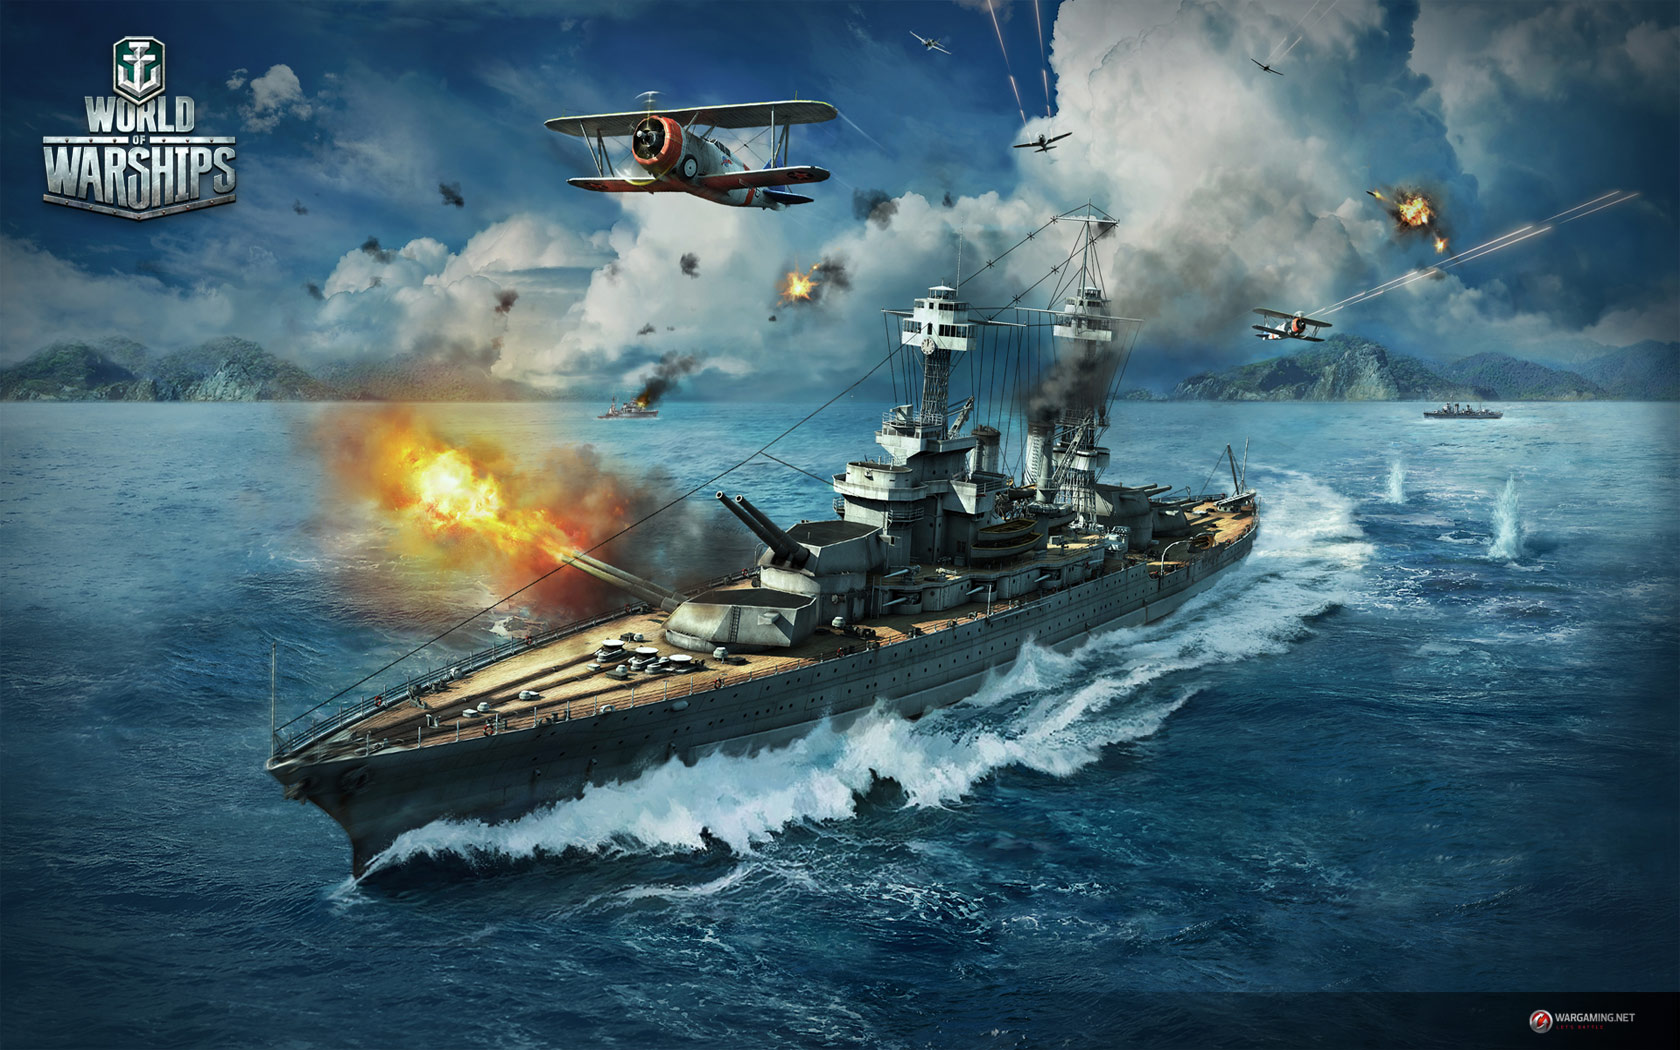
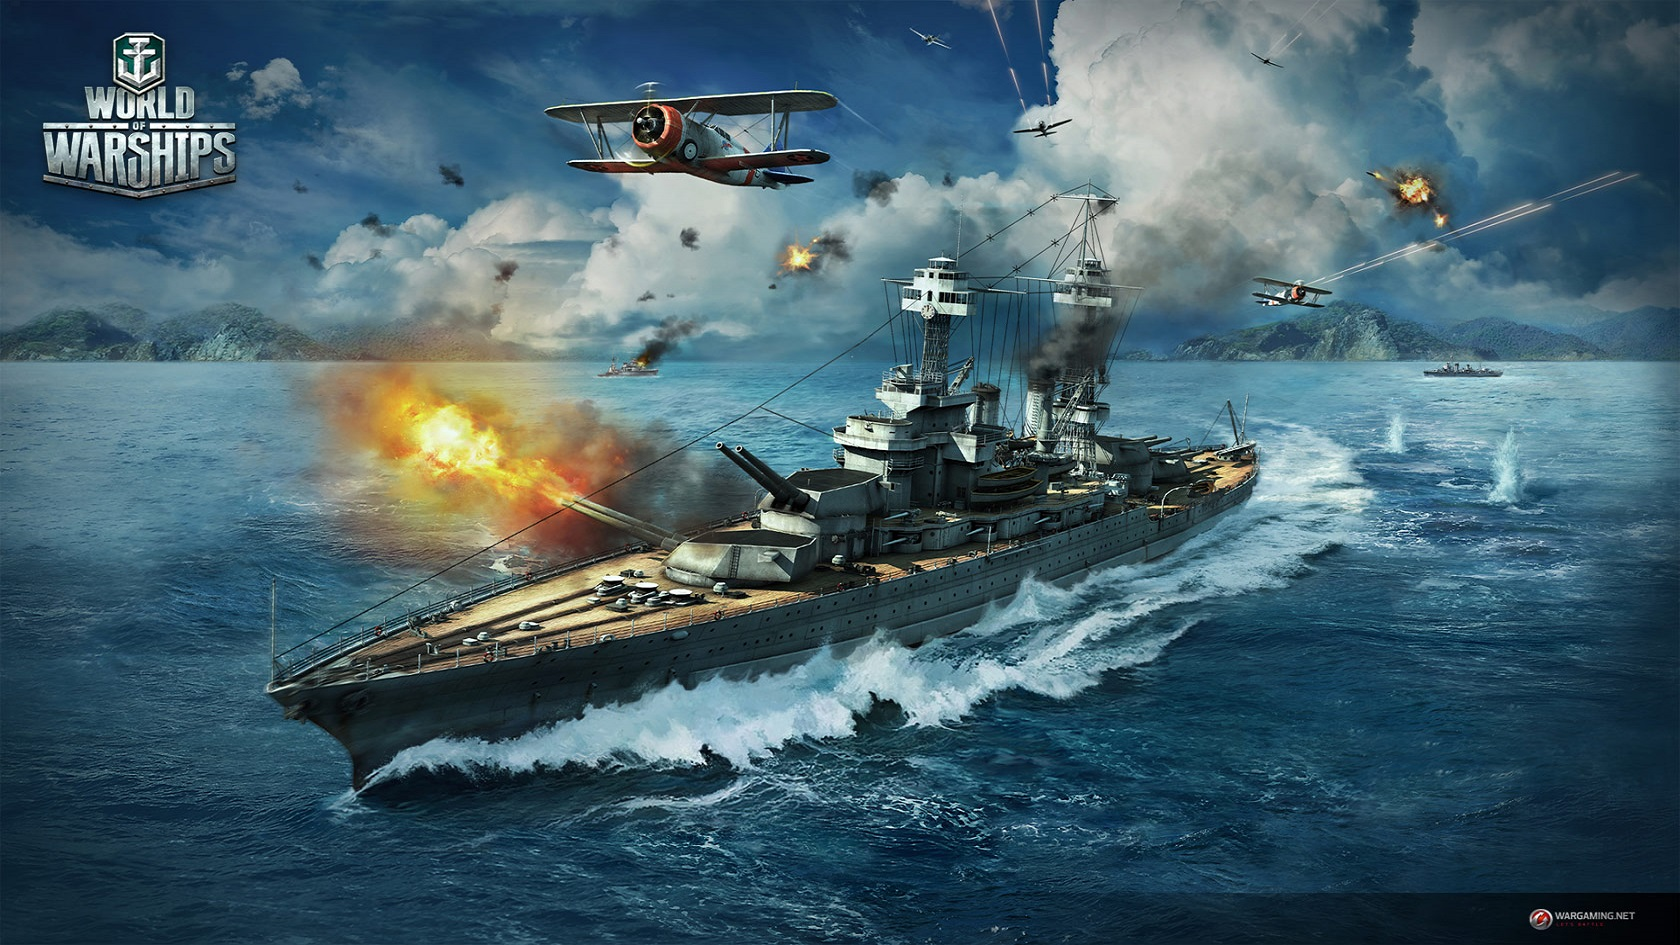
fixed picture size and used new directories

diff --git a/public/game.html b/public/game.html
@@ -17,6 +17,10 @@
 
     <!-- for font-awesome: -->
     <link rel="stylesheet" href="http://maxcdn.bootstrapcdn.com/font-awesome/4.4.0/css/font-awesome.min.css">
+    <script src="https://ajax.googleapis.com/ajax/libs/jquery/1.11.3/jquery.min.js"></script>
+    <script src="https://maxcdn.bootstrapcdn.com/bootstrap/3.3.5/js/bootstrap.min.js"
+    integrity="sha512-K1qjQ+NcF2TYO/eI3M6v8EiNYZfA95pQumfvcVrTHtwQVDG+aHRqLi/ETn2uB+1JqwYqVG3LIvdm9lj6imS/pQ=="
+    crossorigin="anonymous"></script>
 </head>
 <body>
 <div class="navbar navbar-default navbar-fixed-top" role="navigation">
@@ -33,7 +37,7 @@
         <div class="navbar-collapse collapse">
             <ul class="nav navbar-nav navbar-right">
                 <li class="active"><a href="index.html">Home</a></li>
-                <li><a href="#">About</a></li>
+                <li><a href="/about">About</a></li>
                 <li class="dropdown">
                     <a href="#" class="dropdown-toggle" data-toggle="dropdown">Admins & Co <b class="caret"></b>
                     </a>
@@ -65,7 +69,7 @@
         </p>
 
         <div class="thumbnail">
-            <img src="img/shipImage2.jpg" alt="here should be the game gui"></img>
+            <img src="images/shipImage2.jpg" alt="here should be the game gui"></img>
         </div>
     </div>
 
@@ -87,7 +91,7 @@
             </div>
             <div class="panel-body text-center">
                 <a href="http://www.htwg-konstanz.de" target="blank" class="thumbnail">
-                    <img src="img/htwg-logo.png" alt="htwg"></img>
+                    <img src="images/htwg-logo.png" alt="htwg"></img>
                 </a>
                 <a href="http://www.htwg-konstanz.de" target="blank" class="btn btn-success" role="button"> HTWG
                     Konstanz</a>
@@ -123,16 +127,16 @@
 
             <form action="#" method="">
                 <div class="form-group">
-                    <label for="player1name">Player 1 Name, testmail</label>
+                    <label for="player1name">Player 1 Name</label>
                     <input type="text" class="form-control" id="player1name" placeholder="Enter name of player 1">
                     </input>
-                    <p> Player 1, please type in your name. Test highlight: player1name</p>
+                    <p> Player 1, please type in your name.</p>
                 </div>
                 <div class="form-group">
-                    <label for="player2name">Player 2 Name, testmail</label>
+                    <label for="player2name">Player 2 Name</label>
                     <input type="text" class="form-control" id="player2name" placeholder="Enter name of player 2">
                     </input>
-                    <p> Player 2, please type in your name. Test highlight: player1name</p>
+                    <p> Player 2, please type in your name.</p>
                 </div>
 
                 <div class="form-group">
@@ -144,76 +148,6 @@
     </div>
 
 </div>
-
-<div class="container">
-    <form action="">
-        <div class="form group has-warning form-control-feedback">
-            <label for="playerName" class="sr-only">Player1X Name</label>
-            <input type="text" id="playerName" class="form-control" placeholder="Enter name of Player1"></input>
-        </div>
-        <div class="form group has-error">
-            <label for="playerName2">Player2XX Name</label>
-            <input type="text" id="playerName2" class="form-control" placeholder="Enter name of Player2"></input>
-        </div>
-        <p class="help-block">Enter your name here. Chose whatever name you want!</p>
-
-        <div class="form group has-success">
-            <label for="playerName2" class="control-label">Player2 Name</label>
-            <input type="text" id="playerName2" class="form-control" placeholder="Enter name of Player2"></input>
-        </div>
-        <div class="form group has-success has-feedback">
-            <label for="playerName2" class="control-label">Player2 Name</label>
-            <input type="text" id="playerName2" class="form-control" placeholder="Enter name of Player2"></input>
-            <span class="glyphicon glyphicon-check form-control-feedback"></span>
-        </div>
-        <div class="form group has-success has-feedback">
-            <label for="playerName2" class="control-label ">PlayerY2 Name</label>
-            <input type="text" id="playerName2" class="form-control input-lg"
-                   placeholder="Enter name of Player2"></input>
-            <span class="glyphicon glyphicon-thumbs-up form-control-feedback"></span>
-        </div>
-
-        <div class="form group has-success has-feedback col-md-2">
-            <label for="playerName2" class="control-label ">PlayerY2 Name</label>
-            <input type="text" id="playerName2" class="form-control input-lg"
-                   placeholder="Enter name of Player2"></input>
-            <span class="glyphicon glyphicon-thumbs-up form-control-feedback"></span>
-        </div>
-
-    </form>
-
-    <form action="">
-        <div class="row">
-            <div class="col-lg-2">
-                <input type="text" class="form-control" placeholder="2 blocks wide">
-                </input>
-            </div>
-
-            <div class="col-lg-4">
-                <input type="text" class="form-control" placeholder="4 blocks wide">
-                </input>
-            </div>
-
-            <div class="col-lg-6">
-                <input type="text" class="form-control" placeholder="6 blocks wide">
-                </input>
-            </div>
-
-            <div class="form-group has-feedback">
-                <label class="control-label">Username</label>
-                <input type="text" class="form-control" placeholder="Username"/>
-                <i class="glyphicon glyphicon-user form-control-feedback"></i>
-            </div>
-
-            <div class="form-group has-feedback col-md-2">
-                <label class="control-label">Username</label>
-                <input type="text" class="form-control" placeholder="Username"/>
-                <i class="glyphicon glyphicon-user form-control-feedback"></i>
-            </div>
-
-        </div>
-    </form>
-</div>
 <div class="navbar navbar-inverse navbar-fixed-bottom" role="navigation/foot">
     <div class="container">
         <div class=" navbar-text pull-left">
@@ -223,12 +157,10 @@
             <a href="#"><i class="fa fa-facebook-square fa-2x"></i></a>
             <a href="#"><i class="fa fa-twitter fa-2x"></i></a>
             <a href="#"><i class="fa fa-google-plus fa-2x"></i></a>
-
         </div>
     </div>
 </div>
 
-<script src="https://ajax.googleapis.com/ajax/libs/jquery/1.11.3/jquery.min.js"></script>
 <div class="modal fade" id="contact" role="dialog">
     <div class="modal-dialog">
         <div class="modal-content">

diff --git a/public/index.html b/public/index.html
@@ -8,16 +8,17 @@
     <title>Battleship</title>
 
     <!-- Bootstrap -->
-    <link rel="stylesheet" href="https://maxcdn.bootstrapcdn.com/bootstrap/3.3.5/css/bootstrap.min.css"
-          integrity="sha512-dTfge/zgoMYpP7QbHy4gWMEGsbsdZeCXz7irItjcC3sPUFtf0kuFbDz/ixG7ArTxmDjLXDmezHubeNikyKGVyQ=="
-          crossorigin="anonymous">
-    <link href="stylesheets/custom.css" rel="stylesheet">
+    <link rel="stylesheet" href="https://maxcdn.bootstrapcdn.com/bootstrap/3.3.5/css/bootstrap.min.css">
     <link href='https://fonts.googleapis.com/css?family=Open+Sans' rel='stylesheet' type='text/css'>
     <link href='https://fonts.googleapis.com/css?family=Oswald' rel='stylesheet' type='text/css'>
 
     <!-- for font-awesome: -->
     <link rel="stylesheet" href="http://maxcdn.bootstrapcdn.com/font-awesome/4.4.0/css/font-awesome.min.css">
+    <script src="https://maxcdn.bootstrapcdn.com/bootstrap/3.3.5/js/bootstrap.min.js"></script>
+    <script src="https://ajax.googleapis.com/ajax/libs/jquery/1.11.3/jquery.min.js"></script>
 
+    <!-- own stylesheets -->
+    <link href="stylesheets/custom.css" rel="stylesheet">
 </head>
 <body id="owna1">
 <div class="navbar navbar-default navbar-fixed-top" role="navigation">
@@ -67,7 +68,7 @@
     <div class="row" id="row1">
         <div class="col-sm-4 wh">
             <a href="#" class="thumbnail">
-                <img src="img/shipImage.jpg" alt="ship"></img>
+                <img src="images/shipImage.jpg" alt="ship"></img>
             </a>
 
             <h3>About us.</h3>
@@ -78,7 +79,7 @@
 
         <div class="col-sm-4">
             <a href="game.html" class="thumbnail">
-                <img src="img/shipImage2.jpg" alt="ship"></img>
+                <img src="images/shipImage2.jpg" alt="ship"></img>
             </a>
 
             <h3>Instructions/Play</h3>
@@ -89,7 +90,7 @@
 
         <div class="col-sm-4">
             <a href="#" class="thumbnail">
-                <img src="img/shipImage3.jpg" alt="ship"></img>
+                <img src="images/shipImage3.jpg" alt="ship"></img>
             </a>
 
             <h3>Preview</h3>
@@ -142,7 +143,6 @@
         </div>
     </div>
 </div>
-<script src="https://ajax.googleapis.com/ajax/libs/jquery/1.11.3/jquery.min.js"></script>
 <div class="modal fade" id="contact" role="dialog">
     <div class="modal-dialog">
         <div class="modal-content">

diff --git a/public/stylesheets/custom.css b/public/stylesheets/custom.css
@@ -146,47 +146,40 @@ color:#FFFFFF
 
 /* body { background: #000000 !important;} */
 /* body { background: #CCCCB3 !important;}
-/* body { background-image: url("../img/shipImage.jpg") !important;} */
+/* body { background-image: url("../images/shipImage.jpg") !important;} */
 
 /* body { 
-	background-image: url("../img/shipImage.jpg") !important;
+	background-image: url("../images/shipImage.jpg") !important;
 	background-attachment:fixed;
 } */ 
 
 
 
-#owna { 
-	background-image: url("../img/shipImage.jpg") !important;
-	background-attachment:fixed;
-}
 
 #owna1 { 
-	background-image: url("../img/shipImage3.jpg") !important;
+	background-image: url("../images/shipImage3.jpg") !important;
 	background-attachment:fixed;
+	background-size: cover;
 }
 
-#owna2 { 
-	background-image: url("../img/shipImage.jpg") !important;
-	background-attachment:fixed;
-}
 
 #row1 {
 	color:#FFFFFF;
 }
 
 /* #owna { 
-	background-image: url("../img/shipImage.jpg") !important;
+	background-image: url("../images/shipImage.jpg") !important;
 	background-attachment:fixed;
 } */
 
 /* .own { 
-	background-image: url("../img/shipImage.jpg") !important;
+	background-image: url("../images/shipImage.jpg") !important;
 	background-attachment:fixed;
 	padding-top:100px;
 	padding-bottom: 500px;
 }  */
 
 /* .own { 
-	background-image: url("../img/shipImage.jpg") !important;
+	background-image: url("../images/shipImage.jpg") !important;
 	background-attachment:fixed;
 } */
